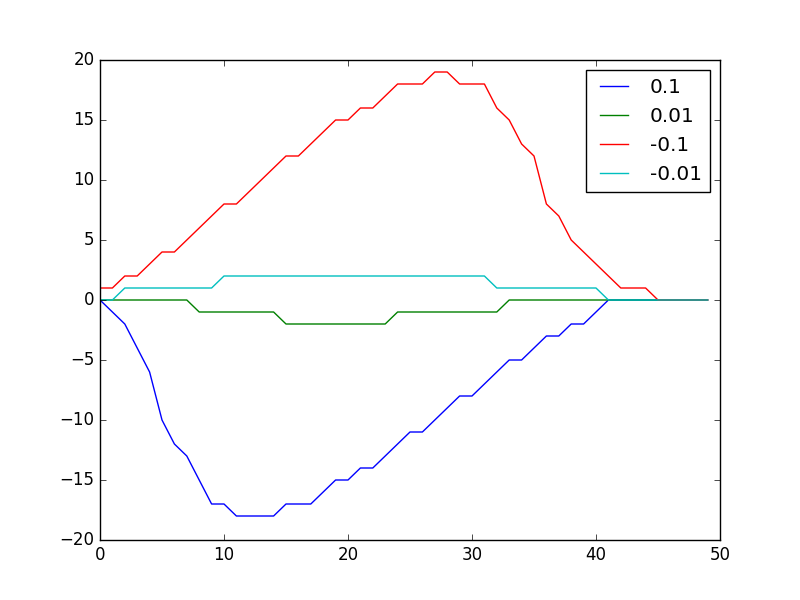
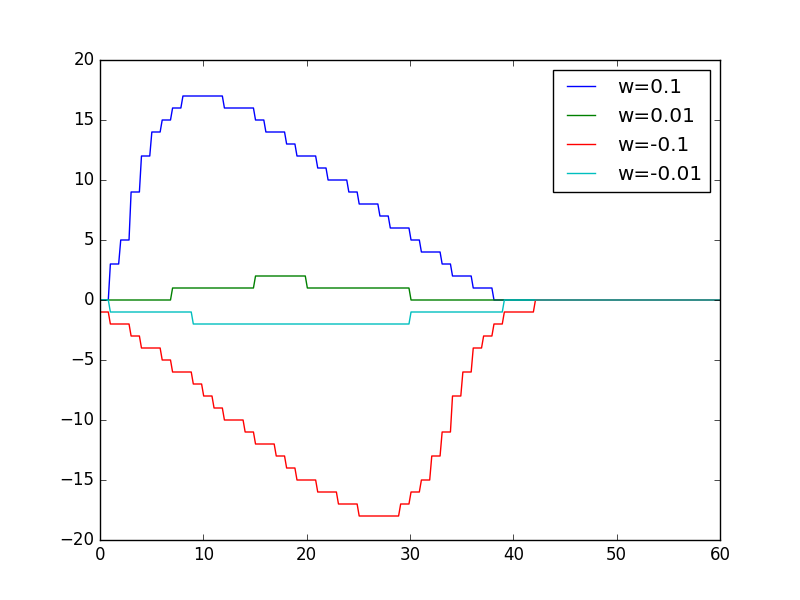
Successfully reproduce Figure 2 in the paper

diff --git a/test.py b/test.py
@@ -14,7 +14,8 @@ def model(I_0, alpha, theta_0, w, t_input_dirac):
     for t in range(2000):
         thetas.append(theta)
         I = I_0
-        if dirac_flag and t > t_input_dirac:    # The first time cross the t_input_dirac
+        epsilon = -0.00001
+        if dirac_flag and t_input_dirac > epsilon and t > t_input_dirac:    # The first time cross the t_input_dirac
             I += w  # Synaptic currents as Diracs
             dirac_flag = False
         delta_theta = theta_der(theta, alpha, I)
@@ -49,7 +50,7 @@ def test_response():
     I_0 = 0.005
     theta_0 = -np.pi
     w = 0.1
-    alpha = 0.6     # When alpha = 0.6, the cycle is about 40+ ms.
+    alpha = 1.0     # When alpha = 1.0, the cycle is about 40+ ms.
 
 
     #test_relation_alpha_cycle(I_0, theta_0, w)
@@ -57,26 +58,40 @@ def test_response():
 
     def pcr(I_0, theta_0, w, alpha):    # Compute Phase Response Curve
         line = []
-        for t_dirac_input in np.linspace(0, 60):
+
+        t_fire_wo, thetas = model(I_0, alpha, theta_0, w, -1)
+        X, Y = [], []
+        for t_dirac_input in np.linspace(0, 60, 300):
             #print t_dirac_input
             t_fire, thetas = model(I_0, alpha, theta_0, w, t_dirac_input)
-            t_fire_wo, thetas = model(I_0, alpha, theta_0, w, -1)
-
             #plt.plot(thetas)
 
-            #print t_fire
-            #print t_fire - t_input
-            #print t_fire - t_fire_wo
-            line.append(t_fire - t_fire_wo)
+            Y.append(- t_fire + t_fire_wo)
+            X.append(t_dirac_input)
             label=str(w)
-        return line, label
+        #print len(line)
+        return X, Y, label
 
+
+    # Figure 2 Left
     for w in [0.1, 0.01, -0.1, -0.01]:
-        line, label = pcr(I_0, theta_0, w, alpha)
-        plt.plot(line, label=label)
+        X, Y, label = pcr(I_0, theta_0, w, alpha)
+        plt.plot(X, Y, label='w='+label)
     plt.legend()
-    plt.savefig('Response properties of the theta model (I_0>0).png')
+    #plt.savefig('Response properties of the theta model (I_0>0).png')
     plt.show()
+
+    # Figure 2 Right
+    I_0 = -0.005
+    theta_0 = np.arccos((1 + alpha * I_0) / (1 - alpha * I_0)) + 0.0001
+    for w in [0.1, 0.001, -0.001]:
+        X, Y, label = pcr(I_0, theta_0, w, alpha)
+        plt.plot(X, Y, label='w='+label)
+    plt.legend()
+    plt.ylim(-60, 60)
+    #plt.savefig('Response properties of the theta model (I_0<0).png')
+    plt.show()
+
 
 
 
